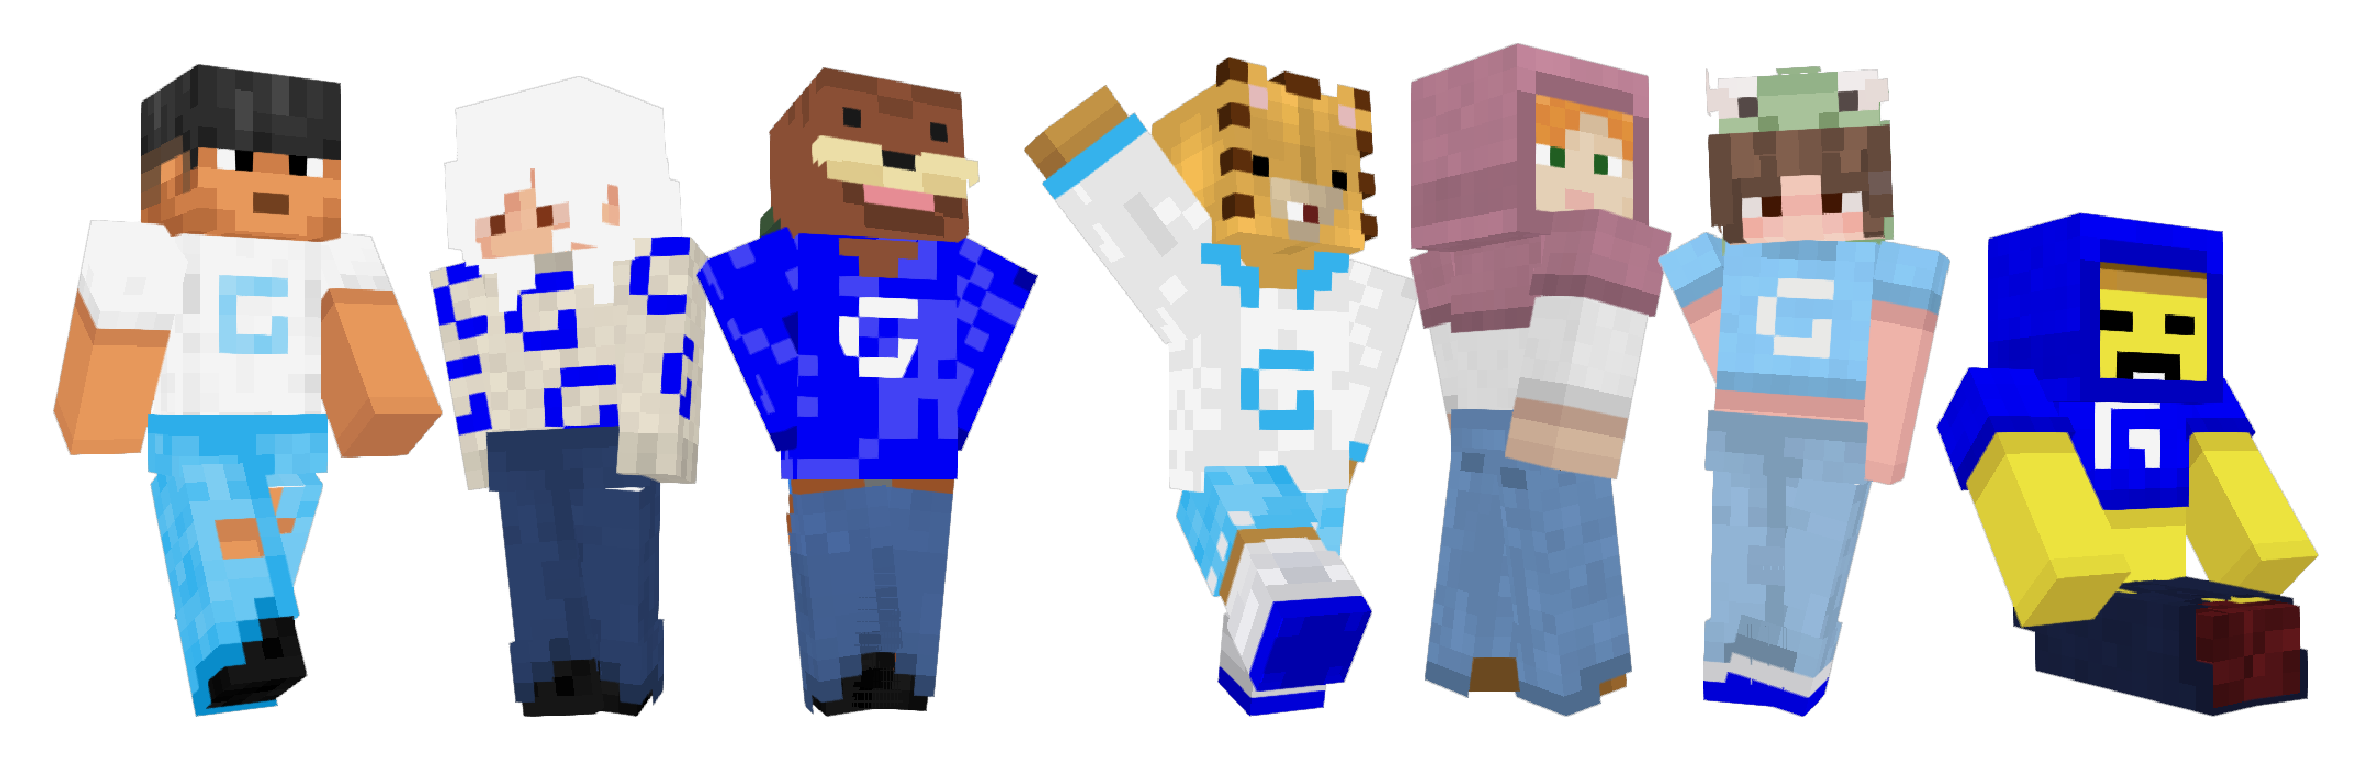
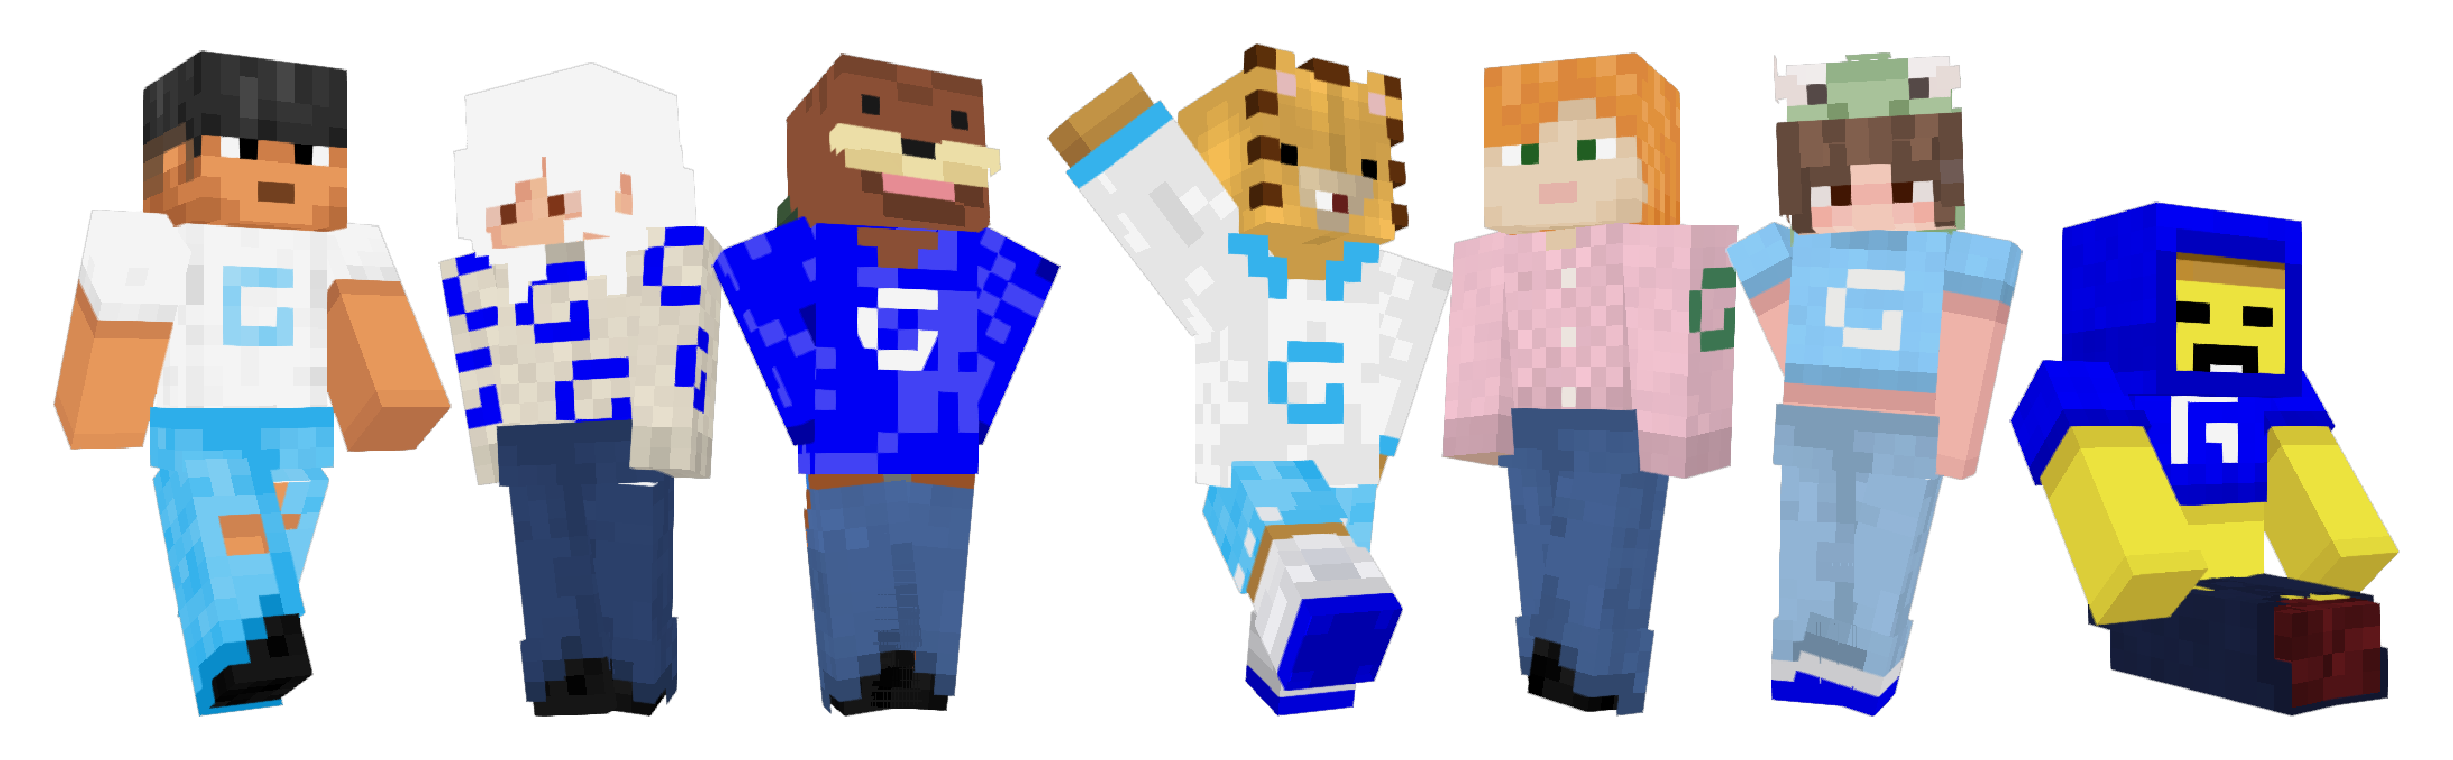
STUDY®: Isabelleblanco in CARDIE® STRAWBERRY MILK and the JEAN® BOOTCUT in THE JEAN™
Claude-Session: https://claude.ai/code/session_01DmeYLYKFz2AvjXEMd4eory

Changed region(s): [[0.0312, 0.0605, 0.9671, 0.9382], [0.0624, 0.0605, 0.156, 0.1211], [0.9047, 0.9079, 0.9359, 0.9382]]

diff --git a/study/a-study-in-jean.html b/study/a-study-in-jean.html
@@ -84,7 +84,7 @@
       <p>Indigo straight off the bolt is where it starts, and you can see every one of them on our <a href="/colors.html">COLORS®</a> page. ROADWORN™ and FAVORITE JEANS™ are about making something that shouldn’t be personal, personal to you.</p>
       <p>Think of the pair you wore three or four weeks straight. Or the pair that’s been in and out of your closet forever, that you can’t put down. It fits, you know it’s going to rip, and you’re willing to chance it because you love it so much.</p>
       <blockquote class="st-pull"><p>You know it’s going to rip, and you’re willing to chance it because you love it so much.</p></blockquote>
-      <figure class="st-fig st-wide st-pair st-n2"><div class="st-tile"><img src="/assets/study/model-bobayeet.png" alt="BobaYeet waving, one knee up, in a collared shirt and jorts." loading="lazy"></div><div class="st-tile"><img src="/assets/study/model-isabelleblanco.png" alt="Isabelleblanco looking back over a shoulder in a pink hood and mid-wash jeans." loading="lazy"></div><figcaption>BobaYeet in COLLAR® COTTON/DENIM and the JORT® in SPRINGSTEEN™ with SNEAK01. Isabelleblanco in DOUBBIE® DUST PINK/TOMATO VINE and the JEAN® in ROADWORN™.</figcaption></figure>
+      <figure class="st-fig st-wide st-pair st-n2"><div class="st-tile"><img src="/assets/study/model-bobayeet.png" alt="BobaYeet waving, one knee up, in a collared shirt and jorts." loading="lazy"></div><div class="st-tile"><img src="/assets/study/model-isabelleblanco.png" alt="Isabelleblanco in a pastel pink cardigan and indigo bootcut jeans." loading="lazy"></div><figcaption>BobaYeet in COLLAR® COTTON/DENIM and the JORT® in SPRINGSTEEN™ with SNEAK01. Isabelleblanco in CARDIE® STRAWBERRY MILK/TOMATO VINE and the JEAN® BOOTCUT in THE JEAN™.</figcaption></figure>
       <p class="st-q">Out of the twenty-wash study and the twelve rip experiments, which ones stuck with you?</p>
       <p>Honestly, nothing so far. The only things available are the ones that stuck.</p>
       <p>We want to innovate, but we also want to make something grounded that will last forever, at least as far as we can tell. That’s a very hard middle point, which is why we’re not satisfied with a lot of things.</p>

diff --git a/js/study.js b/js/study.js
@@ -72,9 +72,9 @@ const STUDY = [
       { quote: 'You know it’s going to rip, and you’re willing to chance it because you love it so much.' },
       { pair: [
           { img: '/assets/study/model-bobayeet.png', alt: 'BobaYeet waving, one knee up, in a collared shirt and jorts.' },
-          { img: '/assets/study/model-isabelleblanco.png', alt: 'Isabelleblanco looking back over a shoulder in a pink hood and mid-wash jeans.' },
+          { img: '/assets/study/model-isabelleblanco.png', alt: 'Isabelleblanco in a pastel pink cardigan and indigo bootcut jeans.' },
         ],
-        caption: 'BobaYeet in COLLAR® COTTON/DENIM and the JORT® in SPRINGSTEEN™ with SNEAK01. Isabelleblanco in DOUBBIE® DUST PINK/TOMATO VINE and the JEAN® in ROADWORN™.' },
+        caption: 'BobaYeet in COLLAR® COTTON/DENIM and the JORT® in SPRINGSTEEN™ with SNEAK01. Isabelleblanco in CARDIE® STRAWBERRY MILK/TOMATO VINE and the JEAN® BOOTCUT in THE JEAN™.' },
 
       { q: 'Out of the twenty-wash study and the twelve rip experiments, which ones stuck with you?' },
       { p: 'Honestly, nothing so far. The only things available are the ones that stuck.' },
